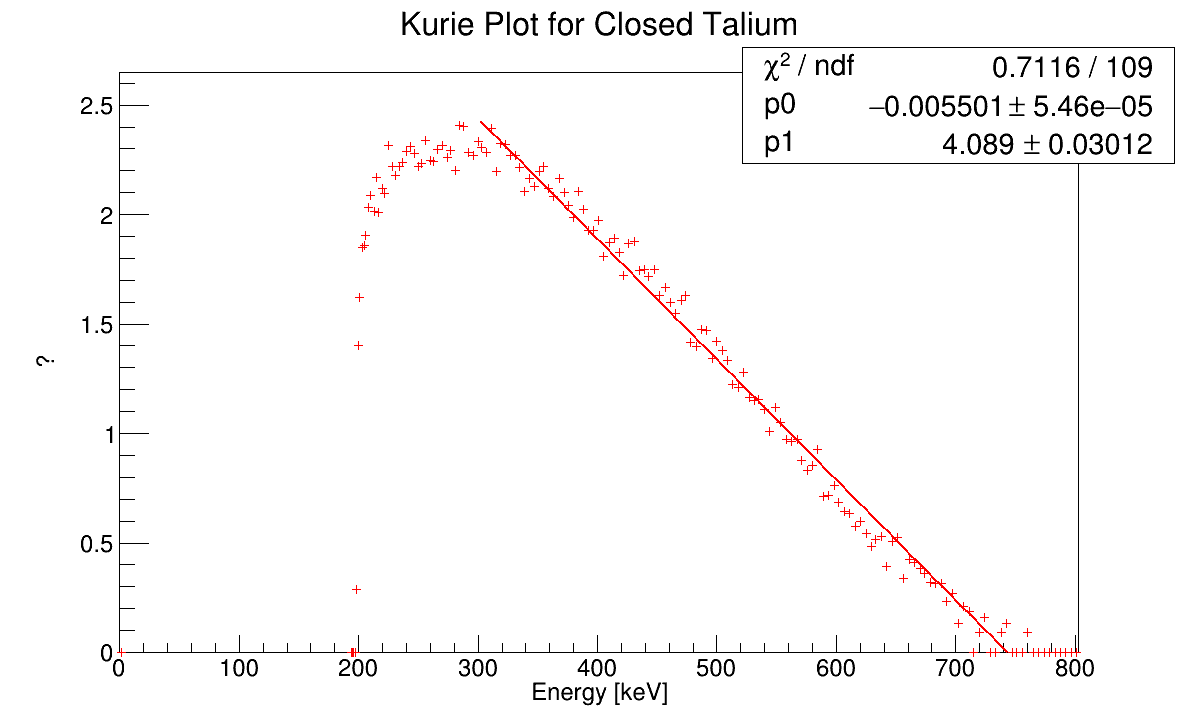
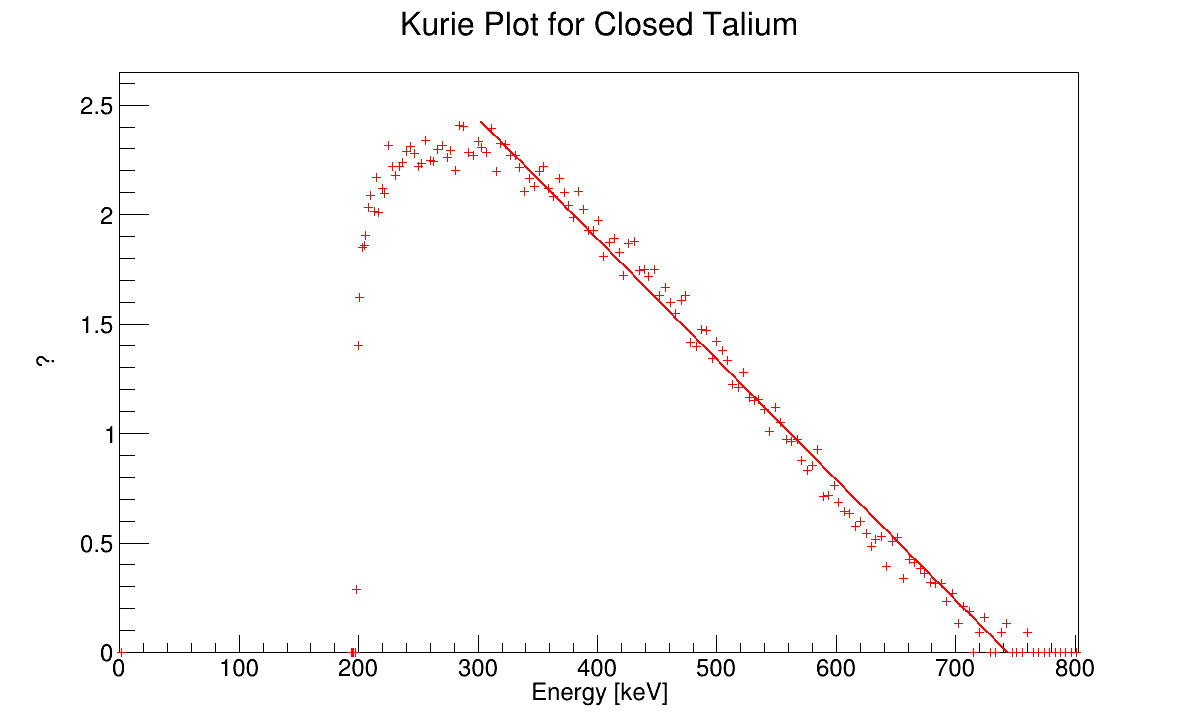
Resolucao

Changed region(s): [[0.7412, 0.0607, 0.9574, 0.2124], [0.6177, 0.0607, 0.7104, 0.1517], [0.6177, 0.1821, 0.6795, 0.2124]]

diff --git a/Beta/main/analise.cpp b/Beta/main/analise.cpp
@@ -108,6 +108,7 @@ int main(){
     
 
     //////////////////////////////// Bismuto ////////////////////////////////
+    gStyle->SetOptFit(kFALSE); 
     vector<pair<double, double>> bismuto;
     ReadFile("data/bismuto.dat", bismuto);
     TGraphErrors bis;
@@ -143,7 +144,7 @@ int main(){
     gaus2->SetParLimits(2,0,2);
     gaus2->SetParLimits(3,0,300);
     //gaus2->SetParLimits(4,120,121.87);
-    //gaus2->SetParLimits(5,0,2.48);
+    gaus2->SetParLimits(5,0,1.23);
     gaus4->SetParameters(50,sixth_peak,1,20,sixth_peak+2,1);
 
 
@@ -167,6 +168,8 @@ int main(){
     c1.SaveAs("graphs/Bismuto_peaks.png");
     c1.WaitPrimitive();
     gSystem->ProcessEvents();
+
+
 
     /// Find Number of Counts
     double counts_one = 0;
@@ -415,7 +418,7 @@ int main(){
 
     //////////////////////////////// Calibration Function ////////////////////////////////
     // Using Bismuth Peaks 
-    gStyle->SetOptFit(111);
+    gStyle->SetOptFit(kTRUE);
     double first_theoretical = 481.694;
     double second_theoretical = 555.251;
     double third_theoretical = 975.655; 
@@ -469,8 +472,89 @@ int main(){
     c1.SaveAs("graphs/InverseCalibration.png");
     c1.WaitPrimitive();
     gSystem->ProcessEvents();
+    gStyle->SetOptFit(kFALSE); 
 
+    //////////////////////////////// Resolução ////////////////////////////////
 
+    //Os vetores vão ter 6 valores, relativos aos picos K, L, M, K, L, M
+    vector<double> centroides = {
+        calibrationFunction->Eval(gaus1->GetParameter(1)),
+        calibrationFunction->Eval(gaus2->GetParameter(1)),
+        calibrationFunction->Eval(gaus2->GetParameter(4)),
+        calibrationFunction->Eval(gaus3->GetParameter(1)),
+        calibrationFunction->Eval(gaus4->GetParameter(1)),
+        calibrationFunction->Eval(gaus4->GetParameter(4)),
+    };
+    vector<double> erro_centroides = {
+        calibrationFunction->Eval(gaus1->GetParError(1)),
+        calibrationFunction->Eval(gaus2->GetParError(1)),
+        calibrationFunction->Eval(gaus2->GetParError(4)),
+        calibrationFunction->Eval(gaus3->GetParError(1)),
+        calibrationFunction->Eval(gaus4->GetParError(1)),
+        calibrationFunction->Eval(gaus4->GetParError(4)),
+    };
+    /*
+    vector<double> sigma = {
+        calibrationFunction->GetParameter(1)*gaus1->GetParError(2),
+        calibrationFunction->GetParameter(1)*gaus2->GetParError(2),
+        calibrationFunction->GetParameter(1)*gaus2->GetParError(5),
+        calibrationFunction->GetParameter(1)*gaus3->GetParError(2),
+        calibrationFunction->GetParameter(1)*gaus4->GetParError(2),
+        calibrationFunction->GetParameter(1)*gaus4->GetParError(5)
+    };
+    vector<double> erro_sigma = {
+        calibrationFunction->GetParameter(1)*gaus1->GetParError(2),
+        calibrationFunction->GetParameter(1)*gaus2->GetParError(2),
+        calibrationFunction->GetParameter(1)*gaus2->GetParError(5),
+        calibrationFunction->GetParameter(1)*gaus3->GetParError(2),
+        calibrationFunction->GetParameter(1)*gaus4->GetParError(2),
+        calibrationFunction->GetParameter(1)*gaus4->GetParError(5)
+    };
+    */
+    vector<double> sigma = {
+        calibrationFunction->GetParameter(1)*1.29,
+        calibrationFunction->GetParameter(1)*1.25,
+        calibrationFunction->GetParameter(1)*1.17,
+        calibrationFunction->GetParameter(1)*0.89,
+        calibrationFunction->GetParameter(1)*0.84,
+        calibrationFunction->GetParameter(1)*0.65
+    };
+    vector<double> erro_sigma = {
+        calibrationFunction->GetParameter(1)*0.05,
+        calibrationFunction->GetParameter(1)*0.11,
+        calibrationFunction->GetParameter(1)*0.07,
+        calibrationFunction->GetParameter(1)*0.08,
+        calibrationFunction->GetParameter(1)*0.13,
+        calibrationFunction->GetParameter(1)*0.12
+    };
+    
+    gStyle->SetOptFit(kTRUE);
+    TGraphErrors G_resolucao;
+    for (int i = 0; i < 6; i++){
+        cout << "Centroide: " << centroides[i]  << " +- " << erro_centroides[i] << endl;
+        cout << "Sigma [CHN]: " << sigma[i]/calibrationFunction->GetParameter(1) << " +- " << erro_sigma[i]/calibrationFunction->GetParameter(1) << endl;
+        cout << "FWHM: " << sigma[i]*2.355 << " +- " << erro_sigma[i]*2.355 << endl;
+        cout << "R: " << sigma[i]*2.355/centroides[i] << " +- " << abs(471 / 200 / centroides[i]) * erro_sigma[i] + abs(sigma[i] * -471 / 200 / (centroides[i]*centroides[i])) * erro_centroides[i] << endl;
+        cout << "------------" << endl;
+        G_resolucao.SetPoint(i, centroides[i], sigma[i]*2.355/centroides[i]);
+        G_resolucao.SetPointError(i, erro_centroides[i], abs(471 / 200 / centroides[i]) * erro_sigma[i] + abs(sigma[i] * -471 / 200 / (centroides[i]*centroides[i])) * erro_centroides[i]);
+    }
+    CustomizeGraph(G_resolucao, kRed, kRed, "Dependencia da Resolucao com a Energia", "Energia [keV]", "Resolucao");
+    TF1 f_resolucao = TF1("f_resolucao", "[0]/sqrt(x)+[1]", 0, 1200);
+    f_resolucao.SetParName(0, "slope");
+    f_resolucao.SetParName(1, "intercept");
+    G_resolucao.Fit("f_resolucao", "R");
+
+    c1.Clear();
+    G_resolucao.Draw("AP");
+    f_resolucao.Draw("same");
+    c1.Update();
+    c1.SaveAs("graphs/Resolucao.png");
+    c1.WaitPrimitive();
+    gSystem->ProcessEvents();
+    gStyle->SetOptFit(kFALSE);
+
+    ///////////////////////////////////////////////////////////////////////////
 
     //////////////////////////////// Find Material with Cesium ////////////////////////////////
     double difference = abs(cesium_peak_theoretical_energy - calibrationFunction->Eval(cesium_peak_channels));
@@ -670,6 +754,7 @@ int main(){
 
 
     //////////////// Strontium and Bismuth Spectrum ///////////////////////
+    gStyle->SetOptFit(kFALSE);
     c1.Clear();
     TLegend *leg_str_bis = new TLegend(0.65, 0.65, 0.85, 0.75);
     leg_str_bis->SetHeader("Strontium and Bismuth Spectrum", "C");
